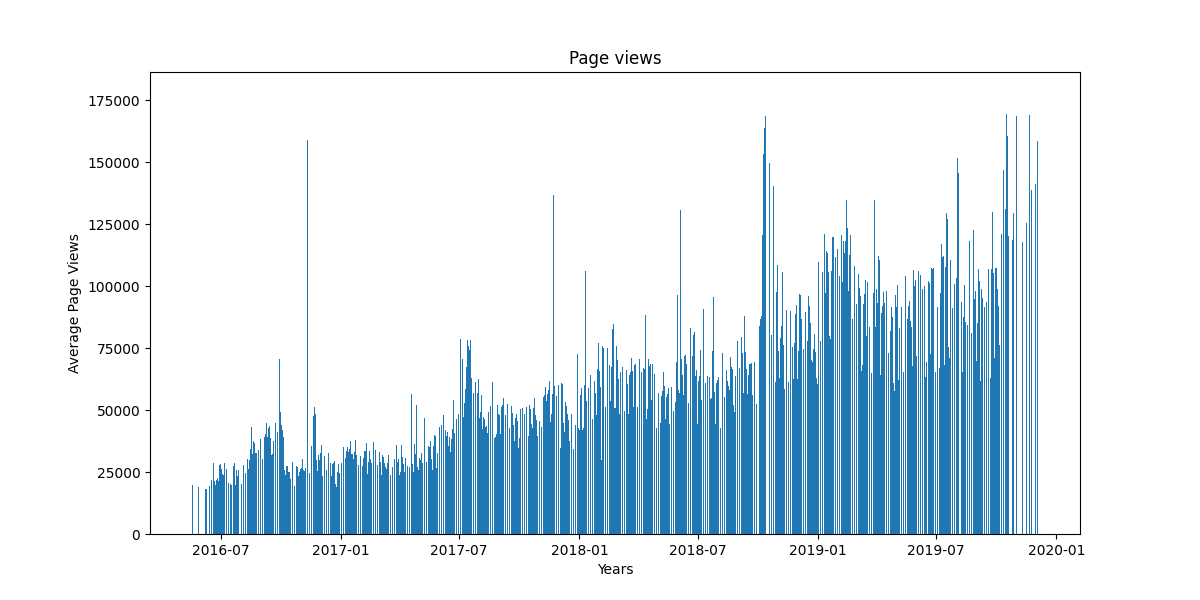
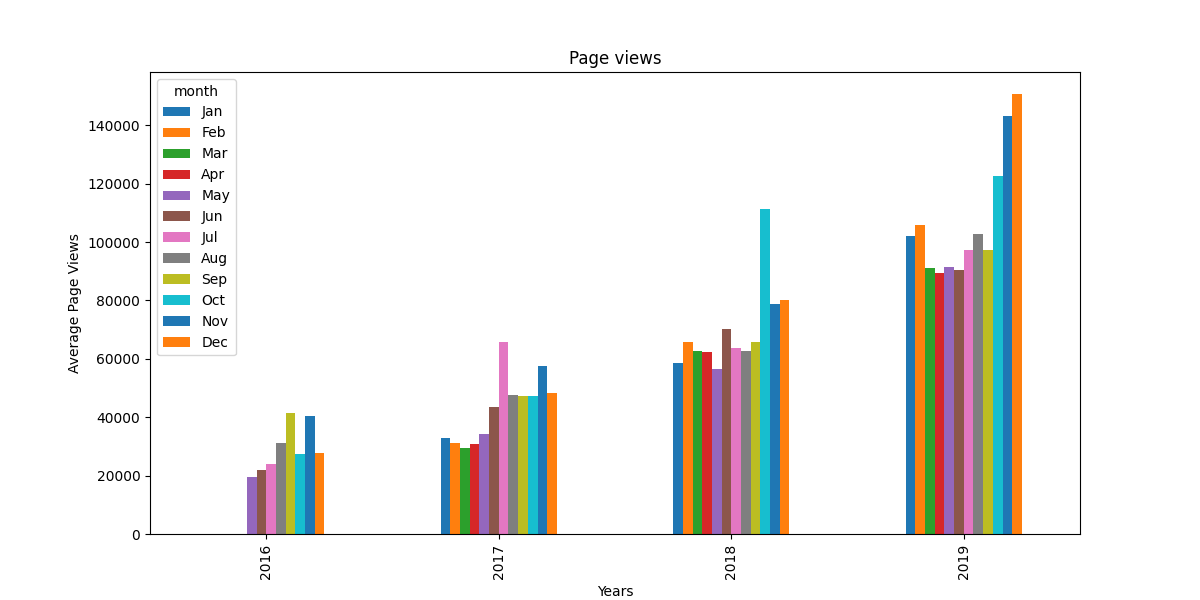
feat: bar_plot

diff --git a/time_series_visualizer.py b/time_series_visualizer.py
@@ -33,13 +33,17 @@ def draw_bar_plot():
     df_bar['year'] = [d.year for d in df_bar.date]
     # Draw bar plot
     fig,ax = plt.subplots(figsize=(12,6))
-    ax.bar(df_bar.date, df_bar['value'])
+    months_order = ['Jan', 'Feb', 'Mar', 'Apr', 'May', 'Jun',
+                'Jul', 'Aug', 'Sep', 'Oct', 'Nov', 'Dec']
+
+    df_bar['month'] = pd.Categorical(df_bar['month'], categories=months_order, ordered=True)
+
+    df_bar_grouped = df_bar.groupby(['year','month'])['value'].mean().unstack()
+    #df_bar.plot(kind='bar', ax=ax)
+    df_bar_grouped.plot(kind='bar',ax=ax)
     ax.set_xlabel('Years')
     ax.set_ylabel('Average Page Views')
     ax.set_title('Page views')
-
-
-
 
     # Save image and return fig (don't change this part)
     fig.savefig('bar_plot.png')
@@ -53,7 +57,7 @@ def draw_box_plot():
     df_box['month'] = [d.strftime('%b') for d in df_box.date]
 
     # Draw box plots (using Seaborn)
-
+    
 
 
 
